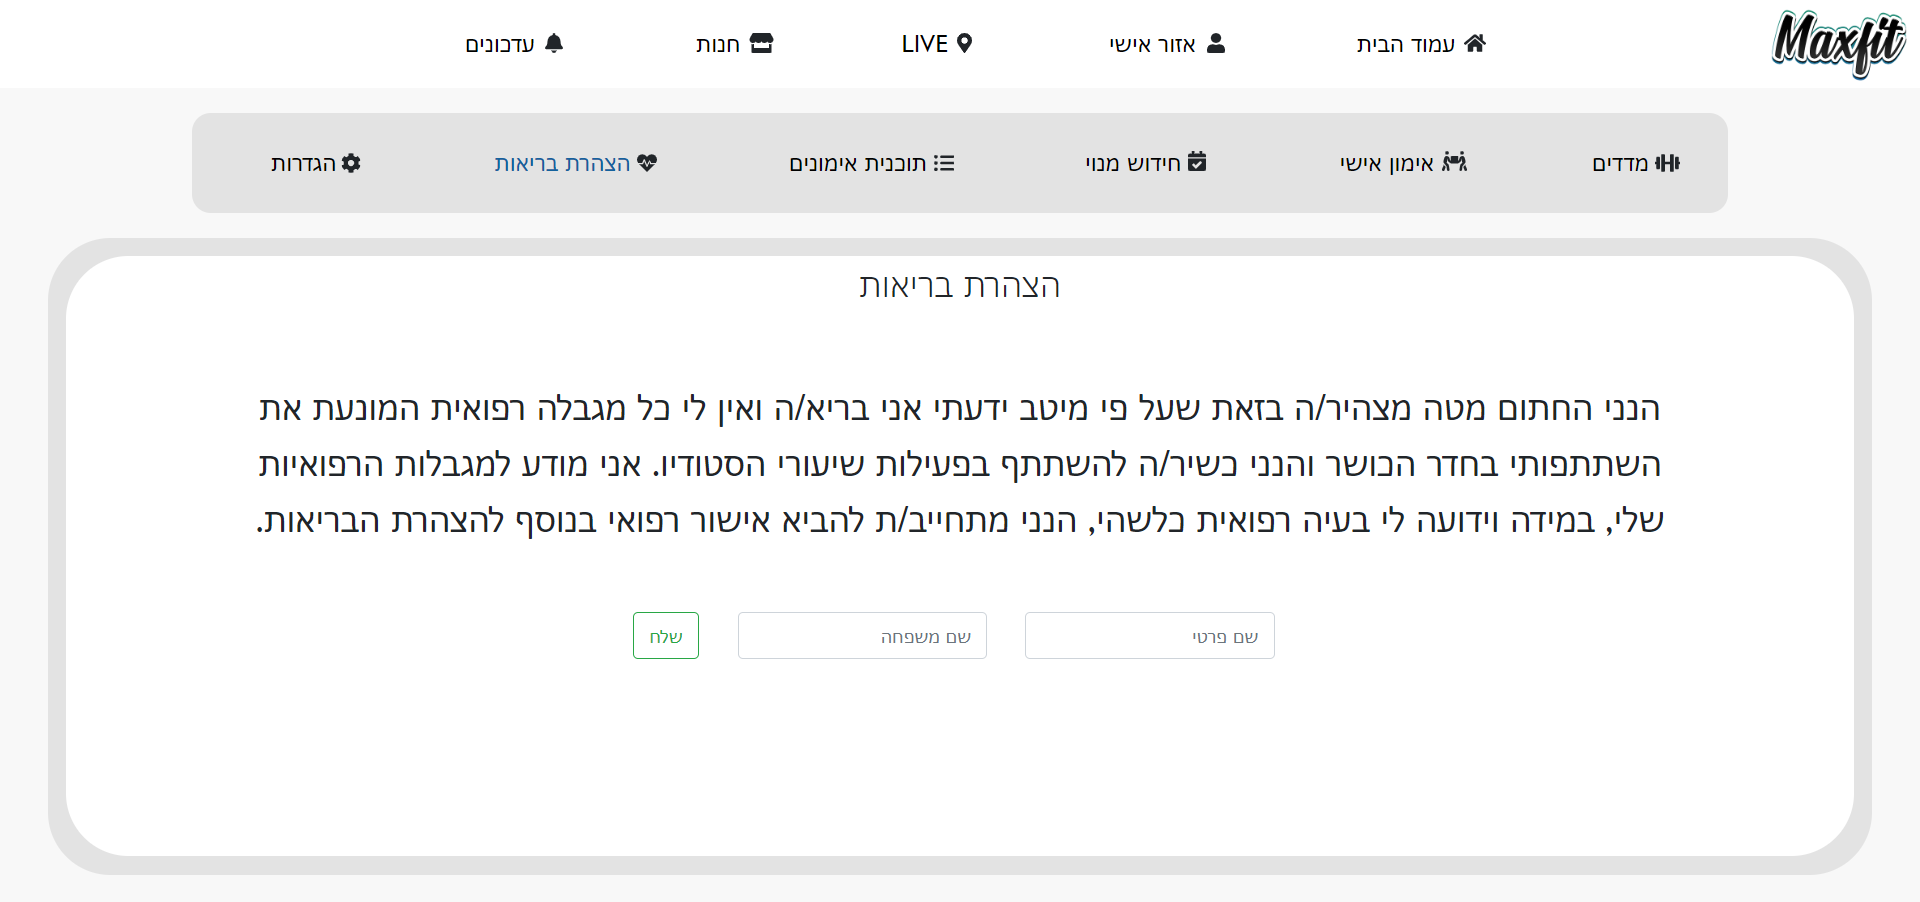
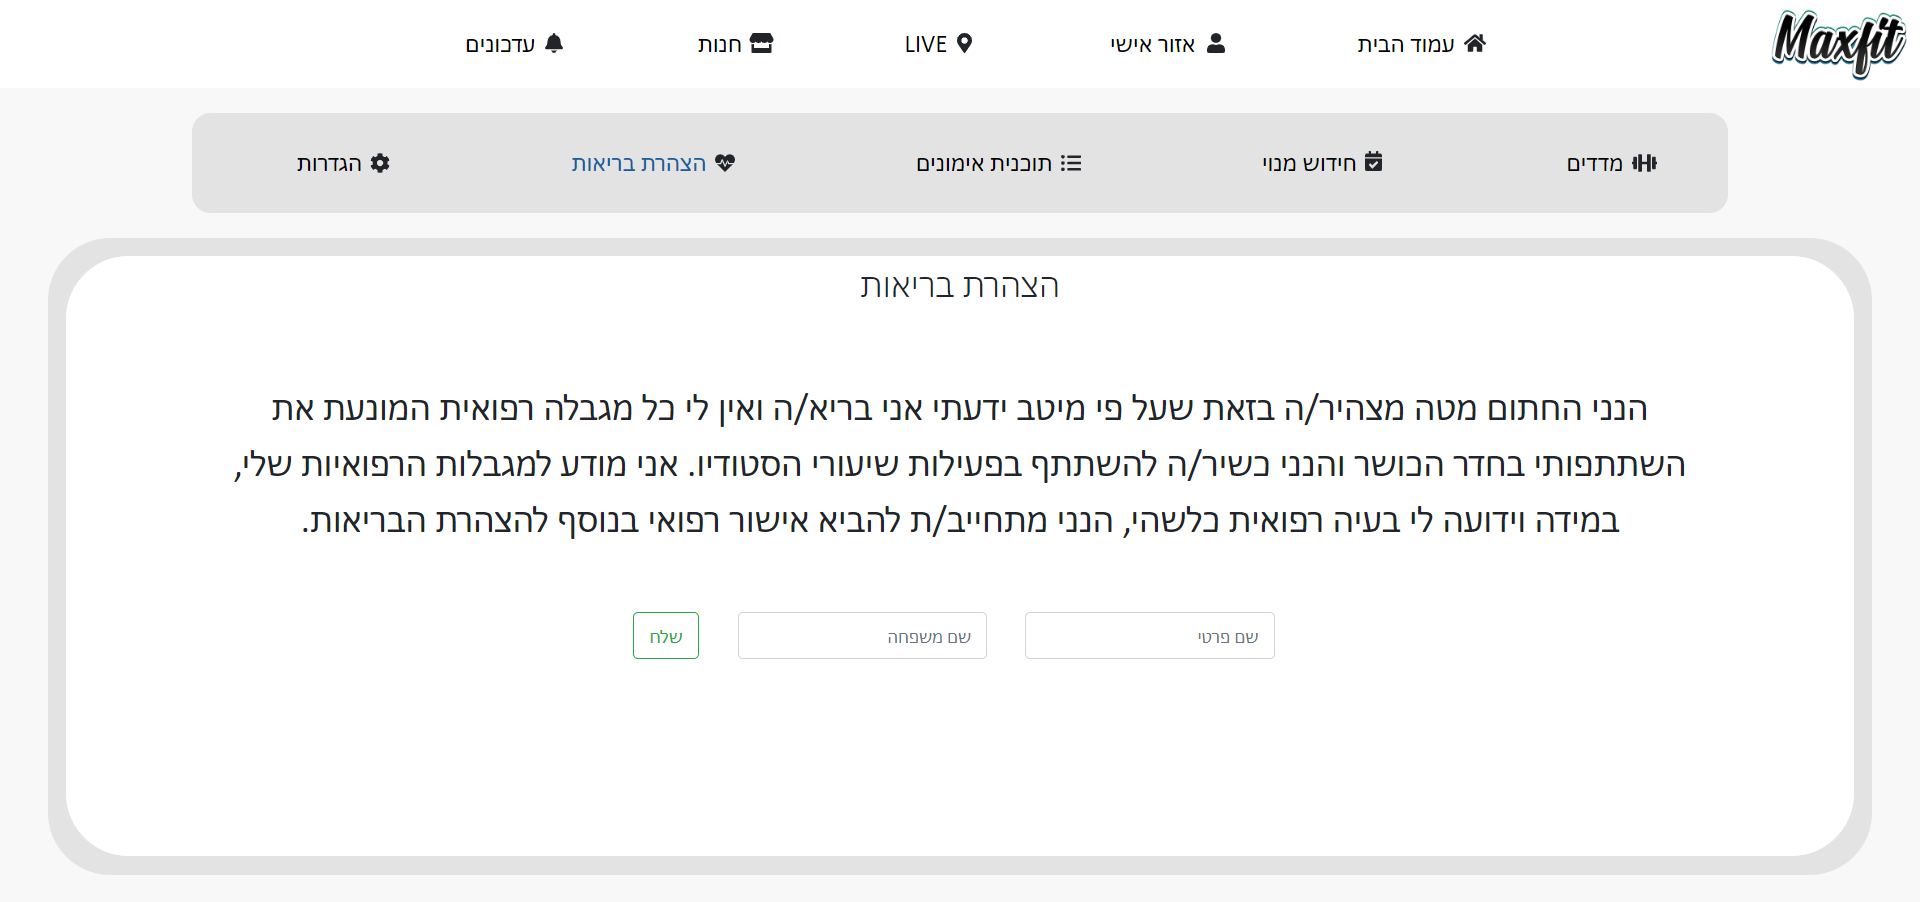
initial commit

diff --git a/client/src/components/Openingpage/Register.js b/client/src/components/Openingpage/Register.js
@@ -1,6 +1,119 @@
-import React from "react";
+import React, { useState } from "react";
+import PropTypes from "prop-types";
+import { Card } from "react-bootstrap";
+import { Link } from "react-router-dom";
+import { FontAwesomeIcon } from "@fortawesome/react-fontawesome";
+import { faAddressCard as FasAddressCard } from "@fortawesome/free-regular-svg-icons";
+import { Row, Form, Col, FormGroup, Label, Input } from "reactstrap";
 
-const Register = () => {
-  return <div className="Openingpage">hi my name is mor</div>;
+import "../../css/Openning.css";
+const Register = ({ login }) => {
+  // useState
+  const [Data, SetData] = useState({
+    Email: "",
+    Password: ""
+  });
+  const { Email, Password } = Data;
+  const [typeState, setType] = useState(false);
+  const onChange = e => SetData({ ...Data, [e.target.name]: e.target.value });
+
+  const onSubmit = async e => {
+    e.preventDefault();
+  };
+
+  return (
+    <div className="Pages-attributes">
+      <main className="main">
+        <div className="MainPage-container">
+          <div className="MainPage-content ">
+            <Card className="Card-size">
+              <Card.Header>הרשמה</Card.Header>
+              <Card.Body>
+                <FontAwesomeIcon className="Main-Icon" icon={FasAddressCard} />
+                <header className="Main-Title"> הרשמה</header>
+
+                <Form className="Register-Form" onSubmit={e => onSubmit(e)}>
+                  <Row form>
+                    <Col md={6}>
+                      <FormGroup>
+                        <Label for="exampleEmail">דואר אלקטרוני</Label>
+                        <Input
+                          type="email"
+                          name="email"
+                          id="exampleEmail"
+                          placeholder="דואר אלקטרוני"
+                        />
+                      </FormGroup>
+                    </Col>
+                    <Col md={6}>
+                      <FormGroup>
+                        <Label for="examplePassword">סיסמה</Label>
+                        <Input
+                          type="password"
+                          name="password"
+                          id="examplePassword"
+                          placeholder="סיסמה"
+                        />
+                      </FormGroup>
+                    </Col>
+                  </Row>
+                  <Row form>
+                    <Col md={6}>
+                      <FormGroup>
+                        <Label for="exampleEmail">שם מלא</Label>
+                        <Input
+                          type="email"
+                          name="email"
+                          id="exampleEmail"
+                          placeholder="שם מלא"
+                        />
+                      </FormGroup>
+                    </Col>
+                    <Col md={6}>
+                      <FormGroup>
+                        <Label for="examplePassword">אימות סיסמה</Label>
+                        <Input
+                          type="password"
+                          name="password"
+                          id="examplePassword"
+                          placeholder="אימות סיסמה"
+                        />
+                      </FormGroup>
+                    </Col>
+                  </Row>
+
+                  <div className="Register-Form-margin"></div>
+                  <label>הצג סיסמה</label>
+                  <input type="checkbox" onClick={() => setType(!typeState)} />
+
+                  <input type="submit" name="Password" value="הרשמה" />
+
+                  <div className="Button-content ">
+                    <div className="LoginApp-text">
+                      <Link to="/forgotPass">שכחת את הסיסמה?</Link>
+                    </div>
+                    <div className="LoginApp-text">
+                      משתמש קיים?
+                      <span className="Link-Color">
+                        <Link to="/Login" className="RegistarButton">
+                          התחבר
+                        </Link>
+                      </span>
+                    </div>
+                  </div>
+                </Form>
+              </Card.Body>
+            </Card>
+          </div>
+        </div>
+      </main>
+    </div>
+  );
 };
+
+Register.propTypes = {
+  login: PropTypes.func.isRequired,
+  isAuth: PropTypes.bool
+};
+
 export default Register;

diff --git a/client/src/css/Openning.css b/client/src/css/Openning.css
@@ -250,3 +250,79 @@ label {
 body::-webkit-scrollbar-thumb {
   background-color: #f8f9fa;
 }
+
+/* Register form */
+
+.Register-Form {
+  margin-right: auto;
+  margin-left: auto;
+  padding-right: 3rem;
+  padding-left: 3rem;
+}
+
+.Register-flex {
+  display: flex;
+  flex-wrap: wrap;
+}
+
+.Register-Form input[type="text"],
+[type="email"] {
+  display: block;
+  width: 100%;
+  height: calc(1.5em + 0.75rem + 2px);
+  padding: 0.375rem 0.75rem;
+  font-size: 1rem;
+  font-weight: 400;
+  line-height: 1.5;
+  outline: none;
+  color: #353c3f;
+  background-color: #fff;
+  background-clip: padding-box;
+  border: 2px solid #353c3f;
+  border-radius: 0.75rem;
+  transition: border-color 0.15s ease-in-out, box-shadow 0.15s ease-in-out;
+}
+
+.Register-Form input[type="password"] {
+  display: block;
+  width: 100%;
+  height: calc(1.5em + 0.75rem + 2px);
+  padding: 0.375rem 0.75rem;
+  font-size: 1rem;
+  font-weight: 400;
+  line-height: 1.5;
+  outline: none;
+  color: #353c3f;
+  background-color: #fff;
+  background-clip: padding-box;
+  border: 2px solid #353c3f;
+  border-radius: 0.75rem;
+  transition: border-color 0.15s ease-in-out, box-shadow 0.15s ease-in-out;
+}
+
+.Register-Form input[type="submit"] {
+  display: block;
+  width: 28%;
+  color: #fff;
+  font-weight: 600;
+  border: none;
+  background-color: #353c3f;
+  background-clip: padding-box;
+  border-radius: 0.8rem;
+  margin-right: auto;
+  margin-left: auto;
+  outline: none;
+  margin-bottom: 10px;
+  padding: 0.325rem;
+  transition: border-color 0.15s ease-in-out, box-shadow 0.15s ease-in-out;
+}
+
+.Register-Form label {
+  padding-top: 15px;
+  text-align: right !important;
+  color: #353c3f;
+}
+
+.form-group {
+  margin-bottom: unset;
+}

diff --git a/client/src/components/Openingpage/Openingpage.js b/client/src/components/Openingpage/Openingpage.js
@@ -9,6 +9,7 @@ import Live from "../../img/Live.png";
 import Store from "../../img/Store.png";
 import Notifications from "../../img/Notifications.png";
 import { Link } from "react-router-dom";
+import { Badge } from "react-bootstrap";
 
 const Openingpage = () => {
   return (
@@ -20,8 +21,11 @@ const Openingpage = () => {
 
 const FirstPage = () => (
   <div>
-    <h2> ברוכים הבאים לאפליקציית - Maxfit!</h2>
-
+    <div className="badge-headline">
+      <Badge pill variant="dark">
+        ברוכים הבאים לאפליקציית - Maxfit
+      </Badge>
+    </div>
     <div className="welcome-text">
       אפליקציית חדר הכושר תאפשר למתאמנים לבצע פעולות כמו: בניית תוכניות אימונים,
       מעקב אחר סטטיסטיקות, לצפות בכמות המתאמנים בזמן אמת, חידוש מנוי, הצהרת

diff --git a/client/src/components/Openingpage/Openingpage.css b/client/src/components/Openingpage/Openingpage.css
@@ -4,7 +4,7 @@
   padding-left: 200px;
 }
 
-.Login {
+.Pages-attributes {
   text-align: center;
   padding-right: 200px;
   padding-left: 200px;
@@ -64,4 +64,24 @@ button:not(:disabled) {
 .Openingpage .MainPage-text {
   font-size: 24px;
   padding: 1rem;
+}
+
+.badge-headline {
+  display: inline-block;
+  margin-top: 30px;
+  padding: 0.25em 0.4em;
+  font-size: 50px;
+  font-weight: 700;
+  line-height: 1;
+  text-align: center;
+  white-space: nowrap;
+  vertical-align: baseline;
+  transition: color 0.15s ease-in-out, background-color 0.15s ease-in-out,
+    border-color 0.15s ease-in-out, box-shadow 0.15s ease-in-out;
+}
+
+.badge-headline .badge-pill {
+  padding-right: 0.6em;
+  padding-left: 0.6em;
+  border-radius: 1rem;
 }

diff --git a/client/src/css/Myprofile.css b/client/src/css/Myprofile.css
@@ -76,37 +76,31 @@
 
 .muscleIcon {
   position: absolute;
-  margin-right: 2.5%;
+  margin-right: 3.7%;
   top: 122px;
-}
-
-.HandsHelping {
-  position: absolute;
-  margin-right: 13.6%;
-  top: 121px;
 }
 
 .CalendarCheck {
   position: absolute;
-  margin-right: 27.2%;
+  margin-right: 18%;
   top: 121px;
 }
 
 .ListUL {
   position: absolute;
-  margin-right: 40.3%;
+  margin-right: 33.7%;
   top: 122px;
 }
 
 .Heartbeat {
   position: absolute;
-  margin-right: 55.8%;
+  margin-right: 51.7%;
   top: 122px;
 }
 
 .Settings {
   position: absolute;
-  margin-right: 71.2%;
+  margin-right: 69.7%;
   top: 122px;
 }
 

diff --git a/client/src/components/Myprofile/Subscription/Subscription.js b/client/src/components/Myprofile/Subscription/Subscription.js
@@ -155,8 +155,6 @@ const SecondNAV = props => (
     <div className="Att">
       <FontAwesomeIcon className="muscleIcon" icon={faDumbbell} />
       <NavLink to="/Processing"> מדדים </NavLink>
-      <FontAwesomeIcon className="HandsHelping" icon={faPeopleCarry} />
-      <NavLink to="/Personaltraining">אימון אישי</NavLink>
       <FontAwesomeIcon className="CalendarCheck" icon={faCalendarCheck} />
       <NavLink to="/Subscription"> חידוש מנוי </NavLink>
       <FontAwesomeIcon className="ListUL" icon={faListUl} />

diff --git a/client/src/components/Myprofile/TrainingPlan/TrainingPlan.js b/client/src/components/Myprofile/TrainingPlan/TrainingPlan.js
@@ -134,8 +134,6 @@ const SecondNAV = props => (
     <div className="Att">
       <FontAwesomeIcon className="muscleIcon" icon={faDumbbell} />
       <NavLink to="/Processing"> מדדים </NavLink>
-      <FontAwesomeIcon className="HandsHelping" icon={faPeopleCarry} />
-      <NavLink to="/Personaltraining">אימון אישי</NavLink>
       <FontAwesomeIcon className="CalendarCheck" icon={faCalendarCheck} />
       <NavLink to="/Subscription"> חידוש מנוי </NavLink>
       <FontAwesomeIcon className="ListUL" icon={faListUl} />

diff --git a/client/src/components/Myprofile/UserSettings/UserSettings.js b/client/src/components/Myprofile/UserSettings/UserSettings.js
@@ -117,8 +117,6 @@ const SecondNAV = props => (
     <div className="Att">
       <FontAwesomeIcon className="muscleIcon" icon={faDumbbell} />
       <NavLink to="/Processing"> מדדים </NavLink>
-      <FontAwesomeIcon className="HandsHelping" icon={faPeopleCarry} />
-      <NavLink to="/Personaltraining">אימון אישי</NavLink>
       <FontAwesomeIcon className="CalendarCheck" icon={faCalendarCheck} />
       <NavLink to="/Subscription"> חידוש מנוי </NavLink>
       <FontAwesomeIcon className="ListUL" icon={faListUl} />

diff --git a/client/src/components/Myprofile/Health/Health.js b/client/src/components/Myprofile/Health/Health.js
@@ -61,8 +61,6 @@ const SecondNAV = props => (
     <div className="Att">
       <FontAwesomeIcon className="muscleIcon" icon={faDumbbell} />
       <NavLink to="/Processing"> מדדים </NavLink>
-      <FontAwesomeIcon className="HandsHelping" icon={faPeopleCarry} />
-      <NavLink to="/Personaltraining">אימון אישי</NavLink>
       <FontAwesomeIcon className="CalendarCheck" icon={faCalendarCheck} />
       <NavLink to="/Subscription"> חידוש מנוי </NavLink>
       <FontAwesomeIcon className="ListUL" icon={faListUl} />

diff --git a/client/src/components/Myprofile/Myprofile.js b/client/src/components/Myprofile/Myprofile.js
@@ -26,8 +26,6 @@ const SecondNAV = props => (
     <div className="Att">
       <FontAwesomeIcon className="muscleIcon" icon={faDumbbell} />
       <NavLink to="/Processing"> מדדים </NavLink>
-      <FontAwesomeIcon className="HandsHelping" icon={faPeopleCarry} />
-      <NavLink to="/Personaltraining">אימון אישי</NavLink>
       <FontAwesomeIcon className="CalendarCheck" icon={faCalendarCheck} />
       <NavLink to="/Subscription"> חידוש מנוי </NavLink>
       <FontAwesomeIcon className="ListUL" icon={faListUl} />

diff --git a/client/src/components/Myprofile/Processing/Processing.js b/client/src/components/Myprofile/Processing/Processing.js
@@ -72,8 +72,6 @@ const SecondNAV = props => (
     <div className="Att">
       <FontAwesomeIcon className="muscleIcon" icon={faDumbbell} />
       <NavLink to="/Processing"> מדדים </NavLink>
-      <FontAwesomeIcon className="HandsHelping" icon={faPeopleCarry} />
-      <NavLink to="/Personaltraining">אימון אישי</NavLink>
       <FontAwesomeIcon className="CalendarCheck" icon={faCalendarCheck} />
       <NavLink to="/Subscription"> חידוש מנוי </NavLink>
       <FontAwesomeIcon className="ListUL" icon={faListUl} />

diff --git a/client/src/components/Openingpage/Login.js b/client/src/components/Openingpage/Login.js
@@ -20,7 +20,7 @@ const Login = ({ login }) => {
   };
 
   return (
-    <div className="Login">
+    <div className="Pages-attributes">
       <main className="main">
         <div className="MainPage-container">
           <div className="MainPage-content ">
